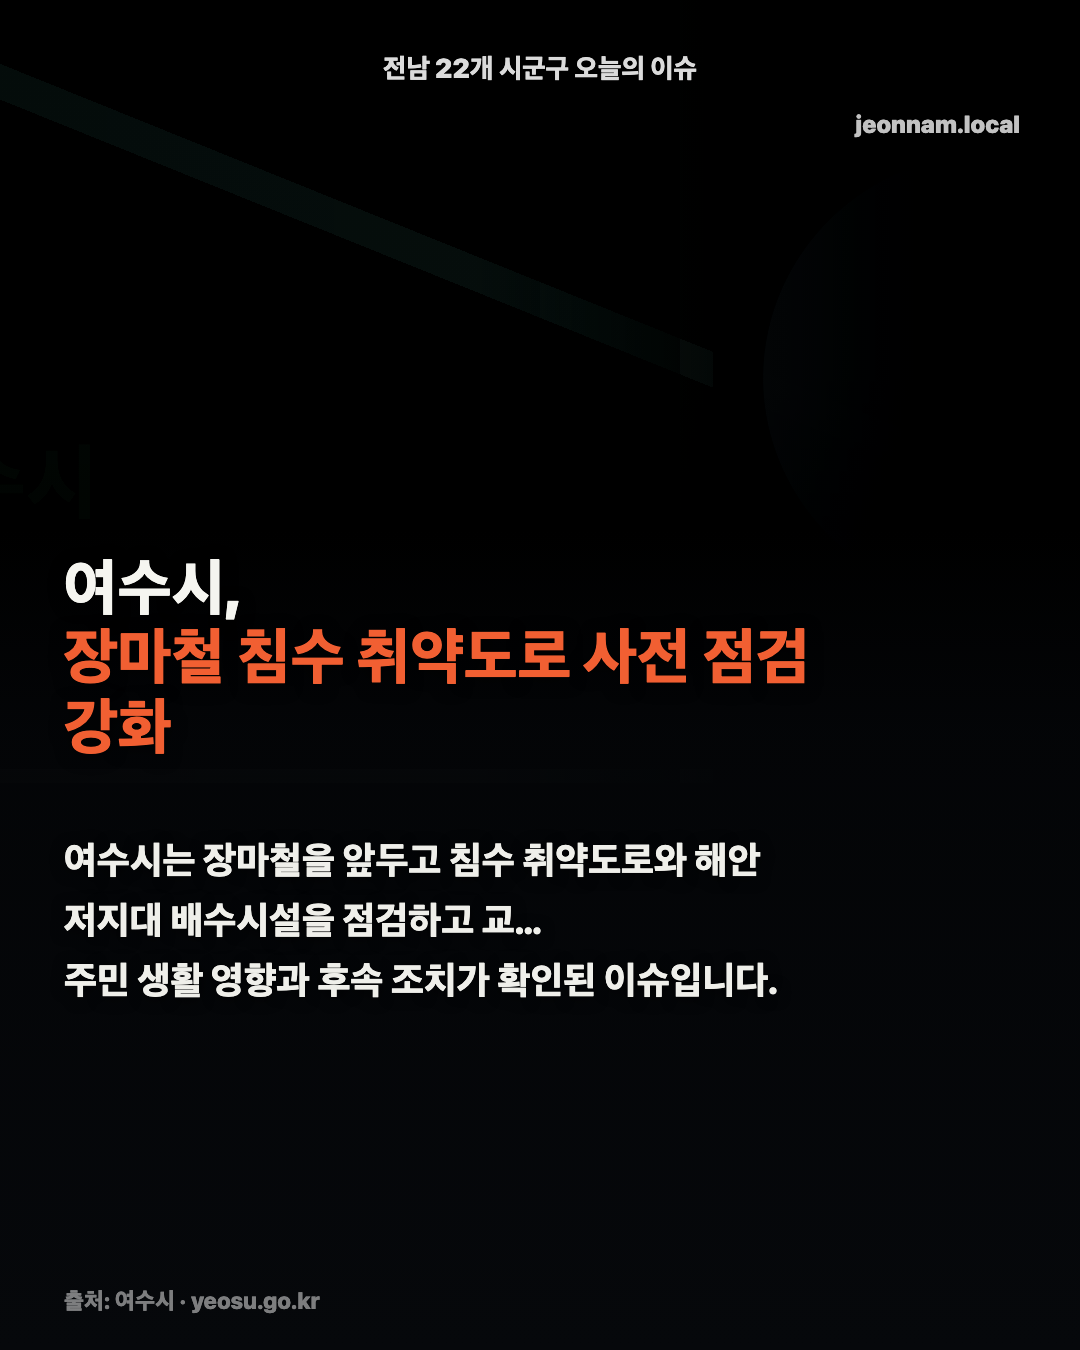
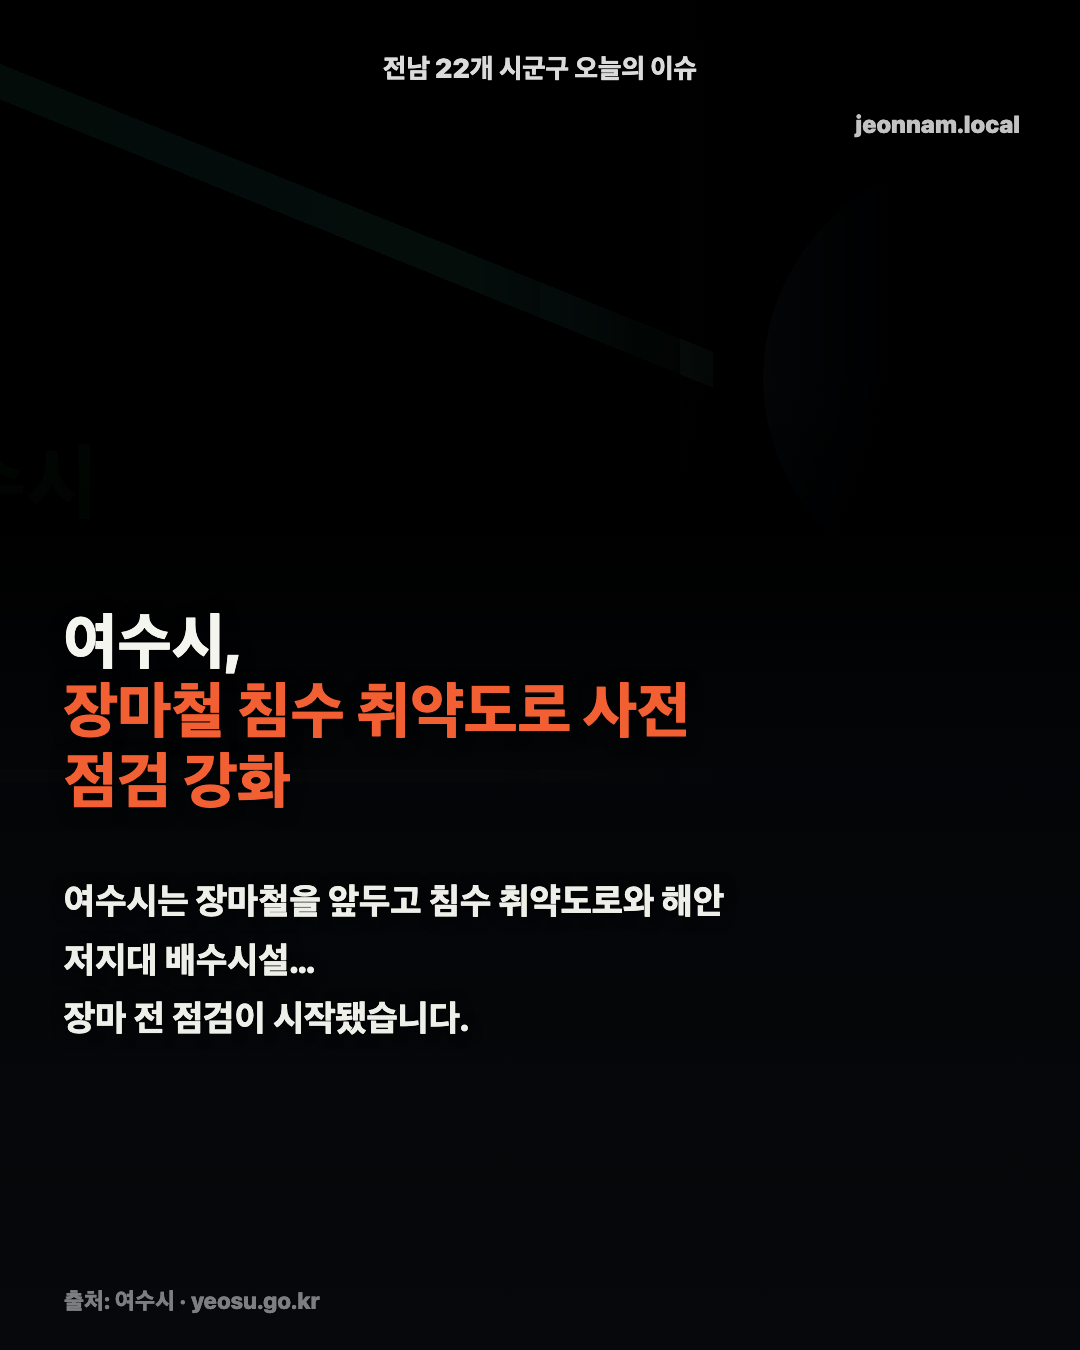
Tighten card summary copy

Changed region(s): [[0.0611, 0.4044, 0.7639, 0.7778]]

diff --git a/reports/2026-05-22/html/목포시.html b/reports/2026-05-22/html/목포시.html
@@ -90,7 +90,7 @@
       right: 0;
       bottom: 0;
       min-height: 820px;
-      padding: 22px 64px 54px;
+      padding: 76px 64px 54px;
       background: linear-gradient(180deg, transparent 0%, rgba(5,7,10,.66) 24%, #06080b 100%);
     }
     .headline {
@@ -98,7 +98,7 @@
       font-size: 62px;
       line-height: 1.12;
       font-weight: 900;
-      max-width: 760px;
+      max-width: 700px;
       word-break: keep-all;
       text-shadow: 0 3px 16px rgba(0,0,0,.65);
     }
@@ -119,12 +119,12 @@
       display: none;
     }
     .summary {
-      margin-top: 70px;
+      margin-top: 58px;
       color: #efefea;
-      font-size: 38px;
-      line-height: 1.58;
+      font-size: 36px;
+      line-height: 1.62;
       font-weight: 800;
-      max-width: 720px;
+      max-width: 660px;
       word-break: keep-all;
       text-shadow: 0 2px 14px rgba(0,0,0,.7);
     }
@@ -160,7 +160,7 @@
       <h1 class="headline">목포시,<br><span class="accent">해상케이블카 주변 관광 동선 개선 사업 착수</span></h1>
       <div class="category">문화·관광.</div>
       <div class="date">• 2026-05-22</div>
-      <section class="summary">목포시는 주요 관광지 방문객 분산과 보행 안전을 위해 관광 동선 개선 사업을…<br>주민 생활 영향과 후속 조치가 확인된 이슈입니다.</section>
+      <section class="summary">목포시는 주요 관광지 방문객 분산과 보행 안전을 위해 관광 동…<br>관광 동선 변화가 예고됐습니다.</section>
     </section>
     <footer class="source">출처: 목포시 · mokpo.go.kr</footer>
   </main>

diff --git a/reports/2026-05-22/html/순천시.html b/reports/2026-05-22/html/순천시.html
@@ -90,7 +90,7 @@
       right: 0;
       bottom: 0;
       min-height: 820px;
-      padding: 22px 64px 54px;
+      padding: 76px 64px 54px;
       background: linear-gradient(180deg, transparent 0%, rgba(5,7,10,.66) 24%, #06080b 100%);
     }
     .headline {
@@ -98,7 +98,7 @@
       font-size: 62px;
       line-height: 1.12;
       font-weight: 900;
-      max-width: 760px;
+      max-width: 700px;
       word-break: keep-all;
       text-shadow: 0 3px 16px rgba(0,0,0,.65);
     }
@@ -119,12 +119,12 @@
       display: none;
     }
     .summary {
-      margin-top: 70px;
+      margin-top: 58px;
       color: #efefea;
-      font-size: 38px;
-      line-height: 1.58;
+      font-size: 36px;
+      line-height: 1.62;
       font-weight: 800;
-      max-width: 720px;
+      max-width: 660px;
       word-break: keep-all;
       text-shadow: 0 2px 14px rgba(0,0,0,.7);
     }
@@ -160,7 +160,7 @@
       <h1 class="headline">순천시,<br><span class="accent">청년 창업공간 입주기업 추가 모집</span></h1>
       <div class="category">복지·생활.</div>
       <div class="date">• 2026-05-22</div>
-      <section class="summary">순천시는 지역 청년 창업 지원을 위해 창업공간 입주기업을 추가 모집하고 멘토…<br>주민 생활 영향과 후속 조치가 확인된 이슈입니다.</section>
+      <section class="summary">순천시는 지역 청년 창업 지원을 위해 창업공간 입주기업을 추가…<br>모집과 지원 일정이 열렸습니다.</section>
     </section>
     <footer class="source">출처: 순천시 · suncheon.go.kr</footer>
   </main>

diff --git a/reports/2026-05-22/html/여수시.html b/reports/2026-05-22/html/여수시.html
@@ -90,7 +90,7 @@
       right: 0;
       bottom: 0;
       min-height: 820px;
-      padding: 22px 64px 54px;
+      padding: 76px 64px 54px;
       background: linear-gradient(180deg, transparent 0%, rgba(5,7,10,.66) 24%, #06080b 100%);
     }
     .headline {
@@ -98,7 +98,7 @@
       font-size: 62px;
       line-height: 1.12;
       font-weight: 900;
-      max-width: 760px;
+      max-width: 700px;
       word-break: keep-all;
       text-shadow: 0 3px 16px rgba(0,0,0,.65);
     }
@@ -119,12 +119,12 @@
       display: none;
     }
     .summary {
-      margin-top: 70px;
+      margin-top: 58px;
       color: #efefea;
-      font-size: 38px;
-      line-height: 1.58;
+      font-size: 36px;
+      line-height: 1.62;
       font-weight: 800;
-      max-width: 720px;
+      max-width: 660px;
       word-break: keep-all;
       text-shadow: 0 2px 14px rgba(0,0,0,.7);
     }
@@ -160,7 +160,7 @@
       <h1 class="headline">여수시,<br><span class="accent">장마철 침수 취약도로 사전 점검 강화</span></h1>
       <div class="category">안전·교통.</div>
       <div class="date">• 2026-05-22</div>
-      <section class="summary">여수시는 장마철을 앞두고 침수 취약도로와 해안 저지대 배수시설을 점검하고 교…<br>주민 생활 영향과 후속 조치가 확인된 이슈입니다.</section>
+      <section class="summary">여수시는 장마철을 앞두고 침수 취약도로와 해안 저지대 배수시설…<br>장마 전 점검이 시작됐습니다.</section>
     </section>
     <footer class="source">출처: 여수시 · yeosu.go.kr</footer>
   </main>

diff --git a/templates/card.html b/templates/card.html
@@ -90,7 +90,7 @@
       right: 0;
       bottom: 0;
       min-height: 820px;
-      padding: 22px 64px 54px;
+      padding: 76px 64px 54px;
       background: linear-gradient(180deg, transparent 0%, rgba(5,7,10,.66) 24%, #06080b 100%);
     }
     .headline {
@@ -98,7 +98,7 @@
       font-size: 62px;
       line-height: 1.12;
       font-weight: 900;
-      max-width: 760px;
+      max-width: 700px;
       word-break: keep-all;
       text-shadow: 0 3px 16px rgba(0,0,0,.65);
     }
@@ -119,12 +119,12 @@
       display: none;
     }
     .summary {
-      margin-top: 70px;
+      margin-top: 58px;
       color: #efefea;
-      font-size: 38px;
-      line-height: 1.58;
+      font-size: 36px;
+      line-height: 1.62;
       font-weight: 800;
-      max-width: 720px;
+      max-width: 660px;
       word-break: keep-all;
       text-shadow: 0 2px 14px rgba(0,0,0,.7);
     }

diff --git a/scripts/build_specs.py b/scripts/build_specs.py
@@ -17,10 +17,18 @@ CATEGORY_LABELS = {
 
 def summarize(item: dict) -> list[str]:
     body = item.get("body", "").strip()
-    if len(body) <= 42:
+    if len(body) <= 34:
         return [body]
-    first = body[:42].rstrip() + "…"
-    second = "주민 생활 영향과 후속 조치가 확인된 이슈입니다."
+    first = body[:34].rstrip() + "…"
+    category = item.get("category")
+    second_by_category = {
+        "safety": "장마 전 점검이 시작됐습니다.",
+        "welfare": "모집과 지원 일정이 열렸습니다.",
+        "economy": "지역 예산과 일자리로 이어집니다.",
+        "agri_marine": "현장 대응이 본격화됩니다.",
+        "culture": "관광 동선 변화가 예고됐습니다.",
+    }
+    second = second_by_category.get(category, "후속 조치가 이어집니다.")
     return [first, second]
 
 
@@ -56,4 +64,3 @@ def main() -> None:
 
 if __name__ == "__main__":
     main()
-